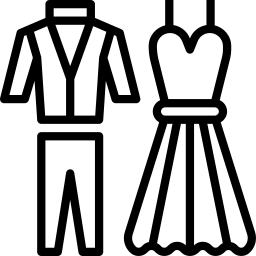
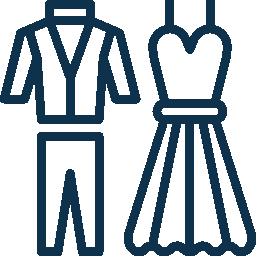
Updates based on sync with Karen

diff --git a/src/index.html b/src/index.html
@@ -19,8 +19,8 @@
 
     <!-- Texto en mensajes de Messenger Facebook -->
     <meta property="og:title" content="Karen y Daniel">
-    <meta property="og:description" content="Nuestro gran momento ha llegado">
-    <meta property="og:image" content="site.jpg">
+    <meta property="og:description" content="Avisame que texto va aqui">
+    <meta property="og:image" content="https://ambitious-field-0843ce610.4.azurestaticapps.net/images/ogshare.jpg">
 
     <!--Libreria de Animaciones Scroll-->
     <link href="css/aos.css" rel="stylesheet">
@@ -83,12 +83,12 @@
         <div class="container">
           <div class="gallery-row"> 
             <div class="column">
-              <img src="http://placehold.it/300x400" style="width:100%">
-              <img src="http://placehold.it/300x200" style="width:100%">
+              <img src="images/gallery/1.jpg" style="width:100%">
+              <img src="images/gallery/2.jpg" style="width:100%">
             </div>
             <div class="column">
-              <img src="http://placehold.it/300x200" style="width:100%">
-              <img src="http://placehold.it/300x400" style="width:100%">
+              <img src="images/gallery/3.jpg" style="width:100%">
+              <img src="images/gallery/4.jpg" style="width:100%">
             </div>
           </div>
         </div>
@@ -110,16 +110,16 @@
             </div>
             <div class="separator"></div>
             <div class="col-12">
-              <h3 class="text-center logo-font">En el amor encontramos nuestra mejor versión, los invitamos a celebrar este capítulo de nuestra historia juntos.</h3>
+              <h4 class="text-center logo-font">En el amor encontramos nuestra mejor versión, los invitamos a celebrar este capítulo de nuestra historia juntos.</h4>
             </div>
             <div class="col-12">
               <h2 class="nombre1 page-title text-center elegance text-center">Los esperamos para celebrar juntos el día:</h2>
             </div>
             <div class="col-12 text-center logo-font">
               
-              <span style="vertical-align: top; line-height: 50px;">SÁBADO</span>
+              <span style="vertical-align: top; line-height: 50px;font-weight: bold;">SÁBADO</span>
               <span style="vertical-align: top; line-height: 50px;font-size: 8rem;">·10·</span>
-              <span style="vertical-align: top; line-height: 50px;">FEBRERO</span>
+              <span style="vertical-align: top; line-height: 50px;font-weight: bold;">FEBRERO</span>
 
             </div>
           </div>
@@ -207,23 +207,23 @@
                 <img src="images/division.png" style="height: 2rem;">
               </div>
             </div> -->
-            <div data-aos="zoom-in" data-aos-duration="3000" class="col-lg-6 mb-20">
+            <div data-aos="zoom-in" data-aos-duration="3000" class="col-6 mb-20">
               <div class="row justify-content-center">
                 <div class="col-12 text-center container mt-2">
-                  <lord-icon src="https://cdn.lordicon.com/imupetit.json" trigger="loop" delay="1000" colors="primary:#5F8575,secondary:#5F8575" style="width:150px;height:150px">
+                  <lord-icon src="https://cdn.lordicon.com/imupetit.json" trigger="loop" delay="1000" colors="primary:#0E324C,secondary:#0E324C" style="width:150px;height:150px">
                   </lord-icon>
-                  <h2 class="text-center  space-top logo-font">Recepción</h2>
-                    <p class="lead">3:30 pm</p>
+                  <h2 class="text-center  space-top logo-font">Recepción Invitados</h2>
+                    <p class="lead" style="font-weight: bold;">2:00 pm</p>
                 </div>
               </div>
             </div>
-            <div data-aos="zoom-in" data-aos-duration="3000" class="col-lg-6 mb-20">
+            <div data-aos="zoom-in" data-aos-duration="3000" class="col-6 mb-20">
               <div class="row justify-content-center">
                 <div class="col-12 text-center container mt-2">
-                  <lord-icon src="https://cdn.lordicon.com/rlngnytn.json" trigger="loop" delay="1000" colors="primary:#5F8575,secondary:#5F8575" style="width:150px;height:150px">
+                  <lord-icon src="https://cdn.lordicon.com/rlngnytn.json" trigger="loop" delay="1000" colors="primary:#0E324C,secondary:#0E324C" style="width:150px;height:150px">
                   </lord-icon> 
                   <h2 class="text-center space-top logo-font">Ceremonia</h2>
-                    <p class="lead">3:00 pm</p>
+                    <p class="lead" style="font-weight: bold;">2:30 pm</p>
                 </div>
 
                 <!-- <div class="col-12 text-center container mt-2">
@@ -232,10 +232,11 @@
               </div>
             </div>
             <div class="col-12">
-              <h3 class="text-center logo-font">La recepción como la ceremonia se llevarán a cabo en el Centro Ecoturístico "La Vendimia".</h3>
+              <h4 class="text-center logo-font">La recepción como la ceremonia se llevarán a cabo en el Centro Ecoturístico "La Vendimia".</h4>
             </div>
+            <div class="separator"></div>
             <div class="col-12 text-center container mt-2">
-              <p class="text-center logo-font">Como llegar?</p>
+              <p class="text-center logo-font" style="font-weight: bold;">¿CÓMO LLEGAR?</p>
               <button class="btn btn-default btn-xl" data-toggle="modal" data-target=".modal3"><i class="fa fa-map-marker pr-10"></i>Mapa</button>
             </div>
           </div>
@@ -244,10 +245,22 @@
 
 
       <section class="align-items-center default-bg pv-30 clearfix" style="display: flex; height: auto; width: 100%">
-        <div class="container align-items-center justify-content-center" style="display: flex;">
-          <div class=" justify-content-center align-items-center" style="display: flex;">
+        <div class="container align-items-center justify-content-center">
+          <div class="justify-content-center align-items-center" style="display: flex;">
             <div data-aos="zoom-in" data-aos-duration="4000" class="col-10">
-              <h2 class="text-center mt-4 logo-font">¡Este día es muy especial y que vayas lo hace aún más!</h2>
+              <h2 class="text-center mt-4 logo-font">Estamos emocionados de comenzar este nuevo capítulo juntos.</h2>
+            </div>
+          </div>
+          <div class="row">
+            <div class="image-box col-6">
+              <picture>
+                <img src="images/nero.JPG" class="img-thumb rounded-circle">
+              </picture>
+            </div>
+            <div class="image-box col-6">
+              <picture>
+                <img src="images/freya.jpg" class="img-thumb rounded-circle">
+              </picture>
             </div>
           </div>
         </div>
@@ -268,19 +281,54 @@
 
       <!--DE AQUI PARA ABAJO EN 4000-->
 
+      <!-- <section class="  align-items-centerlight-gray-bg pv-30 clearfix" style="display: flex; height:auto; width: 100%">
+        <div class="container align-items-center justify-content-center" style="display: flex;">
+          <div class="row justify-content-center">
+            <div data-aos="zoom-in" data-aos-duration="3000" class="col-lg-6 mb-20">
+              <div class="row justify-content-center">
+                <div class="col-12 text-center container mt-2">
+                  <lord-icon src="https://cdn.lordicon.com/ofwxettw.json" trigger="loop" delay="1000" colors="primary:#0E324C,secondary:#0E324C" style="width:150px;height:150px">
+                  </lord-icon>
+                  <h2 class="text-center space-top logo-font">Regalos</h2>
+                </div>
+              </div>
+            </div>
+          </div>
+        </div>
+      </section> -->
+
       <!--Transferencia-->
       <section class="  align-items-centerlight-gray-bg pv-30 clearfix" style="display: flex; height:auto; width: 100%">
-        <div class="container align-items-center justify-content-center" style="display: flex;">
-          <div class=" justify-content-center align-items-center" style="display: flex;">
-            <div class="col-10">
-              <h2 data-aos="zoom-in" data-aos-duration="4000" class="text-center mt-4 logo-font h2perso">Estamos emocionados de comenzar este nuevo capítulo juntos.</h2>
-              <p data-aos="zoom-in" data-aos-duration="4000" class="text-center mt-4">Si te gustaría contribuir, apreciaríamos cualquier ayuda financiera para el futuro de nuestra familia.</p>
-              <h4 data-aos="fade-up" data-aos-duration="4000" class="text-center text-muted">Cuenta BNB - Caja Ahorros</h4>
-              <h5 data-aos="fade-up" data-aos-duration="4000" class="text-center text-muted">Karen Lara Ferrufino - 3501364052</h5>
-              <h4 data-aos="fade-up" data-aos-duration="4000" class="text-center text-muted">QR</h4>
-              <div class="image-box col-8 col-lg-6" style="margin: auto;">
-                <img src="images/qrBolivia.jpg" alt class="img-thumb">
+        <div class="container align-items-center justify-content-center">
+          <div class="row">
+            <div data-aos="zoom-in" data-aos-duration="3000" class="col-lg-6 mb-20">
+              <div class="row justify-content-center">
+                <div class="col-12 text-center container mt-2">
+                  <lord-icon src="https://cdn.lordicon.com/ofwxettw.json" trigger="loop" delay="1000" colors="primary:#0E324C,secondary:#0E324C" style="width:150px;height:150px">
+                  </lord-icon>
+                  <h2 class="text-center space-top logo-font">Regalos</h2>
+                </div>
               </div>
+            </div>
+          </div>
+          <div class="row justify-content-center align-items-center">
+            <div class="col-10">
+              <h2 data-aos="zoom-in" data-aos-duration="4000" class="text-center pv-30 logo-font">Si te gustaría contribuir, apreciaríamos cualquier ayuda financiera para el futuro de nuestra familia.</h2>
+
+              <!-- <h2 data-aos="zoom-in" data-aos-duration="4000" class="text-center mt-4 logo-font h2perso">Estamos emocionados de comenzar este nuevo capítulo juntos.</h2> -->
+              <div class="row">
+                <div class="col-6">
+              <h4 data-aos-duration="4000" class="text-center text-muted mt-4">Cuenta BNB</h4>
+              <h4 data-aos-duration="4000" class="text-center text-muted mt-4">Caja Ahorros</h4>
+              <h5 data-aos-duration="4000" class="text-center text-muted mt-4">Numero de cuenta 3501364052</h5>
+              <h5 data-aos-duration="4000" class="text-center text-muted mt-4">Karen Lara Ferrufino</h5>
+              </div>
+              <div class="col-6">
+              <div class="image-box" style="margin: auto;">
+                <img src="images/qr.jpeg" alt class="img-thumb">
+              </div>
+              </div>
+            </div>
             </div>
           </div>
         </div>
@@ -305,11 +353,11 @@
                 </div>
               </div>
             </div>
-            <div class="col-12 justify-content-center align-items-center" style="display: flex; ">
+            <!-- <div class="col-12 justify-content-center align-items-center" style="display: flex; ">
               <div data-aos="fade-up" data-aos-duration="4000" class="text-center justify-content-center mb-10">
                 <img src="images/division2.png" style="height: 15rem;">
               </div>
-            </div>
+            </div> -->
           </div>
           <!-- <div class="row  justify-content-center">
             <div class="separator"></div>
@@ -334,24 +382,51 @@
         </div>
       </section>
 
+
+      <section class="  align-items-centerlight-gray-bg pv-30 clearfix" style="display: flex; height:auto; width: 100%">
+        <div class="container align-items-center justify-content-center" style="display: flex;">
+          <div class=" justify-content-center align-items-center" style="display: flex;">
+            <div class="col-lg-12 text-center justify-content-center mb-20 mb-lg-5">
+              <h1 data-aos="fade-up" data-aos-duration="4000" class="logo-font text-default portada_custom ">Hemos</h1>
+              <h3 data-aos="fade-up" data-aos-duration="4000" class="logo-font text-default">RESERVADO</h3>
+              <h3 data-aos="fade-up" data-aos-duration="4000" class="logo-font text-default">1</h3>
+              <h3 data-aos="fade-up" data-aos-duration="4000" class="logo-font text-default">————</h3>
+              <h4 data-aos="fade-up" data-aos-duration="4000" class="text-center text-muted">LUGARES EN SU HONOR</h4>
+
+  
+              <!-- <h5 data-aos="fade-up" data-aos-duration="4000" class="text-center text-muted">¡Con gratitud en nuestros corazones, agradecemos a cada uno de ustedes por su presencia y amor en este día tan significativo!</h5> -->
+  
+            </div>
+          </div>
+        </div>
+      </section>
+      <div class="separator"></div>
+
       <!--WHATSAPP-->
-      <section class="  align-items-center light-gray-bg pv-30 clearfix" style="display: flex; height: auto; width: 100%">
+      <section class="  align-items-center clearfix" style="display: flex; height: auto; width: 100%">
         <div class="container pv-40">
           <div class="col-lg-12 text-center justify-content-center mb-20 mb-lg-5">
             <h1 data-aos="fade-up" data-aos-duration="4000" class="logo-font text-default portada_custom ">Confirma tu</h1>
             <h3 data-aos="fade-up" data-aos-duration="4000" class="logo-font text-default">ASISTENCIA</h3>
             <h4 data-aos="fade-up" data-aos-duration="4000" class="text-center text-muted">Tu presencia es la clave para que nuestro día sea perfecto. Por favor, confirma tu asistencia antes del 2 de febrero. ¡La cuenta regresiva ha comenzado!</h4>
             <div class="col-12 text-center container mt-lg-4">
-              <a href="https://wa.me/59178348266/?text=Hola!%20Quiero%20Confirmar%20mi%20asistencia" target="_blank" class="btn btn-default btn-xl logo-font"><i class="fa fa-whatsapp pr-10"></i>Confirma aqui</a>
+              <a href="https://wa.me/59167477365/?text=Hola!%20Quiero%20Confirmar%20mi%20asistencia" target="_blank" class="btn btn-default btn-xl logo-font"><i class="fa fa-whatsapp pr-10"></i>Confirma aqui</a>
             </div>
+            <div class="separator"></div>
+
             <h5 data-aos="fade-up" data-aos-duration="4000" class="text-center text-muted">¡Con gratitud en nuestros corazones, agradecemos a cada uno de ustedes por su presencia y amor en este día tan significativo!</h5>
 
           </div>
-          <div class="col-12 justify-content-center align-items-center" style="display: flex; ">
+          <!-- <div class="col-12 justify-content-center align-items-center" style="display: flex; ">
             <div class="text-center justify-content-center mb-10">
               <img src="images/division.png" style="height: 2rem;">
             </div>
-          </div>
+          </div> -->
+                      <div class="col-12 justify-content-center align-items-center" style="display: flex; ">
+              <div data-aos="fade-up" data-aos-duration="4000" class="text-center justify-content-center mb-10">
+                <img src="images/division2.png" style="height: 10rem;">
+              </div>
+            </div>
           <div class="row justify-content-center">
             <div class="col-lg-6 mb-20">
               <div data-aos="zoom-in" data-aos-duration="4000" class="row justify-content-center">

diff --git a/src/css/pink.css b/src/css/pink.css
@@ -59,7 +59,7 @@ mark,
 }
 
 .default-bg {
-  background-color: rgb(115 125 103 );
+  background-color: #38636A;
   color: #ffffff;
 }
 
@@ -115,8 +115,8 @@ mark,
 /* Buttons
 ---------------------------------- */
 .btn-default {
-  background-color: 	#8A9A5B;
-  border-color: #ad9d80;
+  background-color:#0E324C;
+  border-color: #0E324C;
 }
 
 .btn-default:hover,
@@ -278,7 +278,7 @@ ul.pagination .page-item.active .page-link,
 /*Modals
 ---------------------------------- */
 .modal-content .modal-header {
-  background-color: rgb(115 125 103 );
+  background-color: #38636A;
 }
 
 /*Pace (Page loader)

diff --git a/src/css/style.css b/src/css/style.css
@@ -4592,6 +4592,7 @@ fieldset[disabled] .form-control {
 ---------------------------------- */
 .modal-content .modal-title {
   color: #F6F6F6;
+  font-weight: bold;
 }
 
 .modal-open .page-wrapper {

diff --git a/src/css/custom.css b/src/css/custom.css
@@ -67,7 +67,7 @@
 .countdown2_style span {
   float: left;
   border-radius: 50%;
-  background-color: #8A9A5B;
+  background-color: #718A89;
   padding: 10px;
   font-size: 2.8rem;
   height: 85px;
